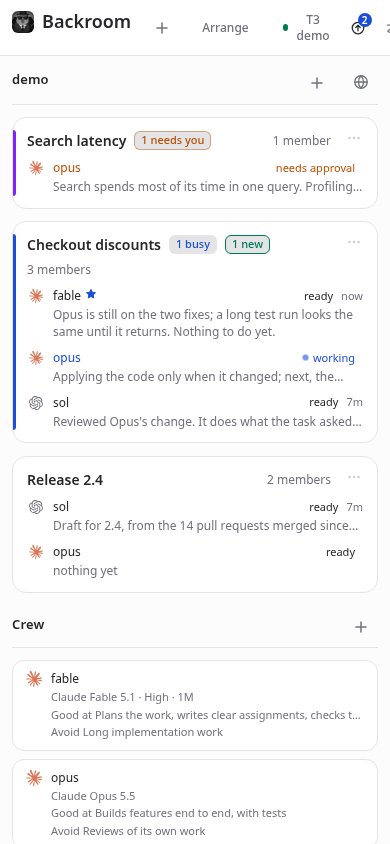
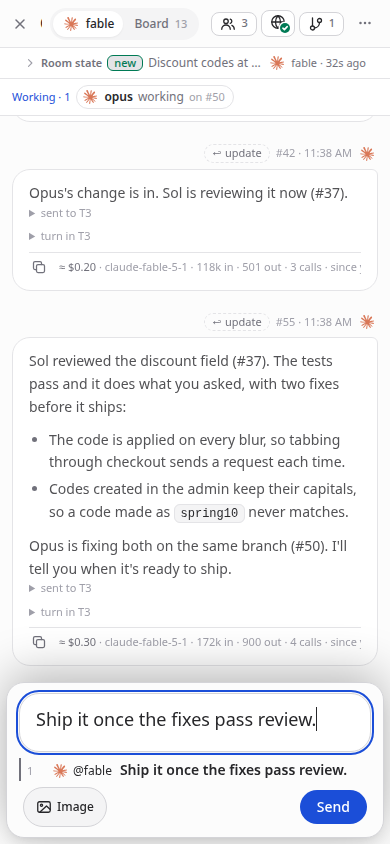
README's phone and skills pictures redrawn (picture review #211, ruling #217)
phone.png is the Checkout discounts room at 390 pixels wide with the composer open, as the tour's sentence describes; the overview it showed cut off Settings beside the fake's "T3 demo" label, which a real service draws as "T3". skills.png is drawn with pstack cloned from the repository's fixture (scripts/pstack-fixture.ts, ROOMS_PSTACK_REPO), whose commit is synthetic; the upstream pack's pinned commit named a real GitHub user. The alt texts and docs/development.md's pictures section and table say so.

Changed region(s): [[0.0, 0.0, 1.0, 1.0], [0.9846, 0.0308, 1.0, 0.0616], [0.8923, 0.4621, 0.9231, 0.4929]]

diff --git a/docs/development.md b/docs/development.md
@@ -42,10 +42,10 @@ The pictures in `assets/readme` are drawn by hand, in a tab of one's own in a ro
 ```sh
 ROOMS_ADAPTER=fake ROOMS_PORT=4475 ROOMS_DATA_DIR=/tmp/backroom-shots/data ROOMS_FAKE_PROJECT_DIR=/tmp/demo-shop \
   T3_USERDATA_DIR=/tmp/backroom-shots/t3 CLAUDE_CONFIG_DIR=/tmp/backroom-shots/claude CODEX_HOME=/tmp/backroom-shots/codex \
-  ROOMS_BROWSER_MODE=vnc npm start
+  ROOMS_BROWSER_MODE=vnc ROOMS_PSTACK_REPO=/tmp/backroom-shots/pstack/plugins.git npm start
 ```
 
-The crew is `fable` (Claude Fable 5.1, the Consigliere of new rooms), `opus` (Claude Opus 5.5, in a worktree of its own) and `sol` (GPT-6 Sol). Each member's runs are held with `POST /api/fake/hold` and ended with `POST /api/fake/complete` and a reply that reads like real work, and the Consigliere posts with `bin/rooms-board` and his own key. Before a turn ends, a row in `orchestration_v2_projection_provider_threads` of `/tmp/backroom-shots/t3/statev2.sqlite` names its session, and Claude or Codex transcript lines timed inside the turn give it calls to price, with T3's `usage-model-rates.json` copied beside them. A member left running for five minutes wakes the Consigliere with a silent notice: end that turn too before drawing. Full pages are 1280 pixels wide and panels and dialogs are cropped to themselves, in the plain look; the phone picture is 390 wide.
+`ROOMS_PSTACK_REPO` names the pstack fixture that `makePstackFixture` in `scripts/pstack-fixture.ts` makes (here in `/tmp/backroom-shots/pstack`), so the pack's commits are synthetic and no upstream author's name shows. The crew is `fable` (Claude Fable 5.1, the Consigliere of new rooms), `opus` (Claude Opus 5.5, in a worktree of its own) and `sol` (GPT-6 Sol). Each member's runs are held with `POST /api/fake/hold` and ended with `POST /api/fake/complete` and a reply that reads like real work, and the Consigliere posts with `bin/rooms-board` and his own key. Before a turn ends, a row in `orchestration_v2_projection_provider_threads` of `/tmp/backroom-shots/t3/statev2.sqlite` names its session, and Claude or Codex transcript lines timed inside the turn give it calls to price, with T3's `usage-model-rates.json` copied beside them. A member left running for five minutes wakes the Consigliere with a silent notice: end that turn too before drawing. Full pages are 1280 pixels wide and panels and dialogs are cropped to themselves, in the plain look; the phone picture is 390 wide.
 
 | File | What it shows | What the fake needs |
 | --- | --- | --- |
@@ -59,10 +59,10 @@ The crew is `fable` (Claude Fable 5.1, the Consigliere of new rooms), `opus` (Cl
 | `approval.png` | An approval in the status bar and in the turn | `POST /api/fake/approval` on opus's running turn, a command |
 | `browsers.png` | The Browser panel | browsers on for Checkout discounts, `staging` the default and `general` allowed and started, with example.com opened through `bin/rooms-browser` |
 | `browser-screen.png` | The `general` browser's screen | its watch link opened in a tab of one's own; the link holds the viewer password, so it stays out of every picture |
-| `skills.png` | Settings → Skills: a linked pack skill and the pack | pstack's `tdd` linked into Claude's folder (`skill.link`) with two lines (`skill.hint.set`) |
+| `skills.png` | Settings → Skills: a linked pack skill and the pack | pstack cloned from the fixture; its Claude Code copy of `tdd` linked into Claude's folder (`skill.link`) with two lines (`skill.hint.set`) |
 | `git.png` | The Git panel on opus's worktree | three commits in `/tmp/demo-shop`, and the worktree the fake gives opus (`/tmp/demo-shop-worktrees/checkout-discounts-opus`) with one commit and one uncommitted change |
 | `file-preview.png` | A file from a reply in the preview | `DiscountField.tsx` in opus's worktree, opened from its answer |
-| `phone.png` | The overview on a phone | the same overview at 390 pixels wide with touch |
+| `phone.png` | Checkout discounts on a phone, with the composer open | the room at 390 pixels wide with touch, a message typed and not sent |
 | `pixel.png` | A room in the pixel look by night | Look → Pixel (Slate) with the dark theme and Members open |
 | `pairing.png` | The pairing panel | a second throwaway on the real adapter, with a data folder of its own and `T3_CLI=off`, so it holds no credential and issues none: `ROOMS_PORT=4477 ROOMS_DATA_DIR=/tmp/backroom-pairing/data T3_CLI=off ROOMS_BROWSER_MODE=off npm start` |
 

diff --git a/README.md b/README.md
@@ -290,7 +290,7 @@ Each part names what Backroom adds to T3 Code and links its reference.
 
 **One instructions file, and the skills you name.** When a project gets its first room, Backroom writes a short `AGENTS.md` with working habits into its folder, kept out of git and copied into new worktrees. **Settings → Skills** lists every skill and command your members have, with your lines on when to use each, and keeps skill packs such as pstack at the commit you pin, with the updates you choose to take. See [The agents file and skills](docs/agents-file-and-skills.md).
 
-![Settings → Skills: a pack skill linked into Claude's folder with your lines on when to use it and what to avoid, and the pstack pack pinned at a commit](assets/readme/skills.png)
+![Settings → Skills: a pack skill linked into Claude's folder with your lines on when to use it and what to avoid, and the pstack pack pinned at its commit](assets/readme/skills.png)
 
 **Git without leaving the room.** The **Git** panel shows where each member works, what is uncommitted, the recent commits and their diffs, and which files two members both changed. See [Git (side panel)](docs/room.md#git-side-panel).
 
@@ -302,7 +302,7 @@ Each part names what Backroom adds to T3 Code and links its reference.
 
 **On a phone.** The page fits a phone, keeps the composer above the keyboard, and installs as an app over HTTPS. See [On a phone](docs/room.md#on-a-phone).
 
-![The overview on a phone, 390 pixels wide: the rooms as one column of tiles, then the crew](assets/readme/phone.png)
+![Checkout discounts on a phone, 390 pixels wide: the Consigliere's updates, and the composer open at the foot with a message, its plan and the Send button](assets/readme/phone.png)
 
 **A pixel look, if you like.** **Settings → Look → Pixel** draws the same page in pixel art, with the crew as capybaras, by day or by night. See [The pixel look](docs/room.md#the-pixel-look).
 
